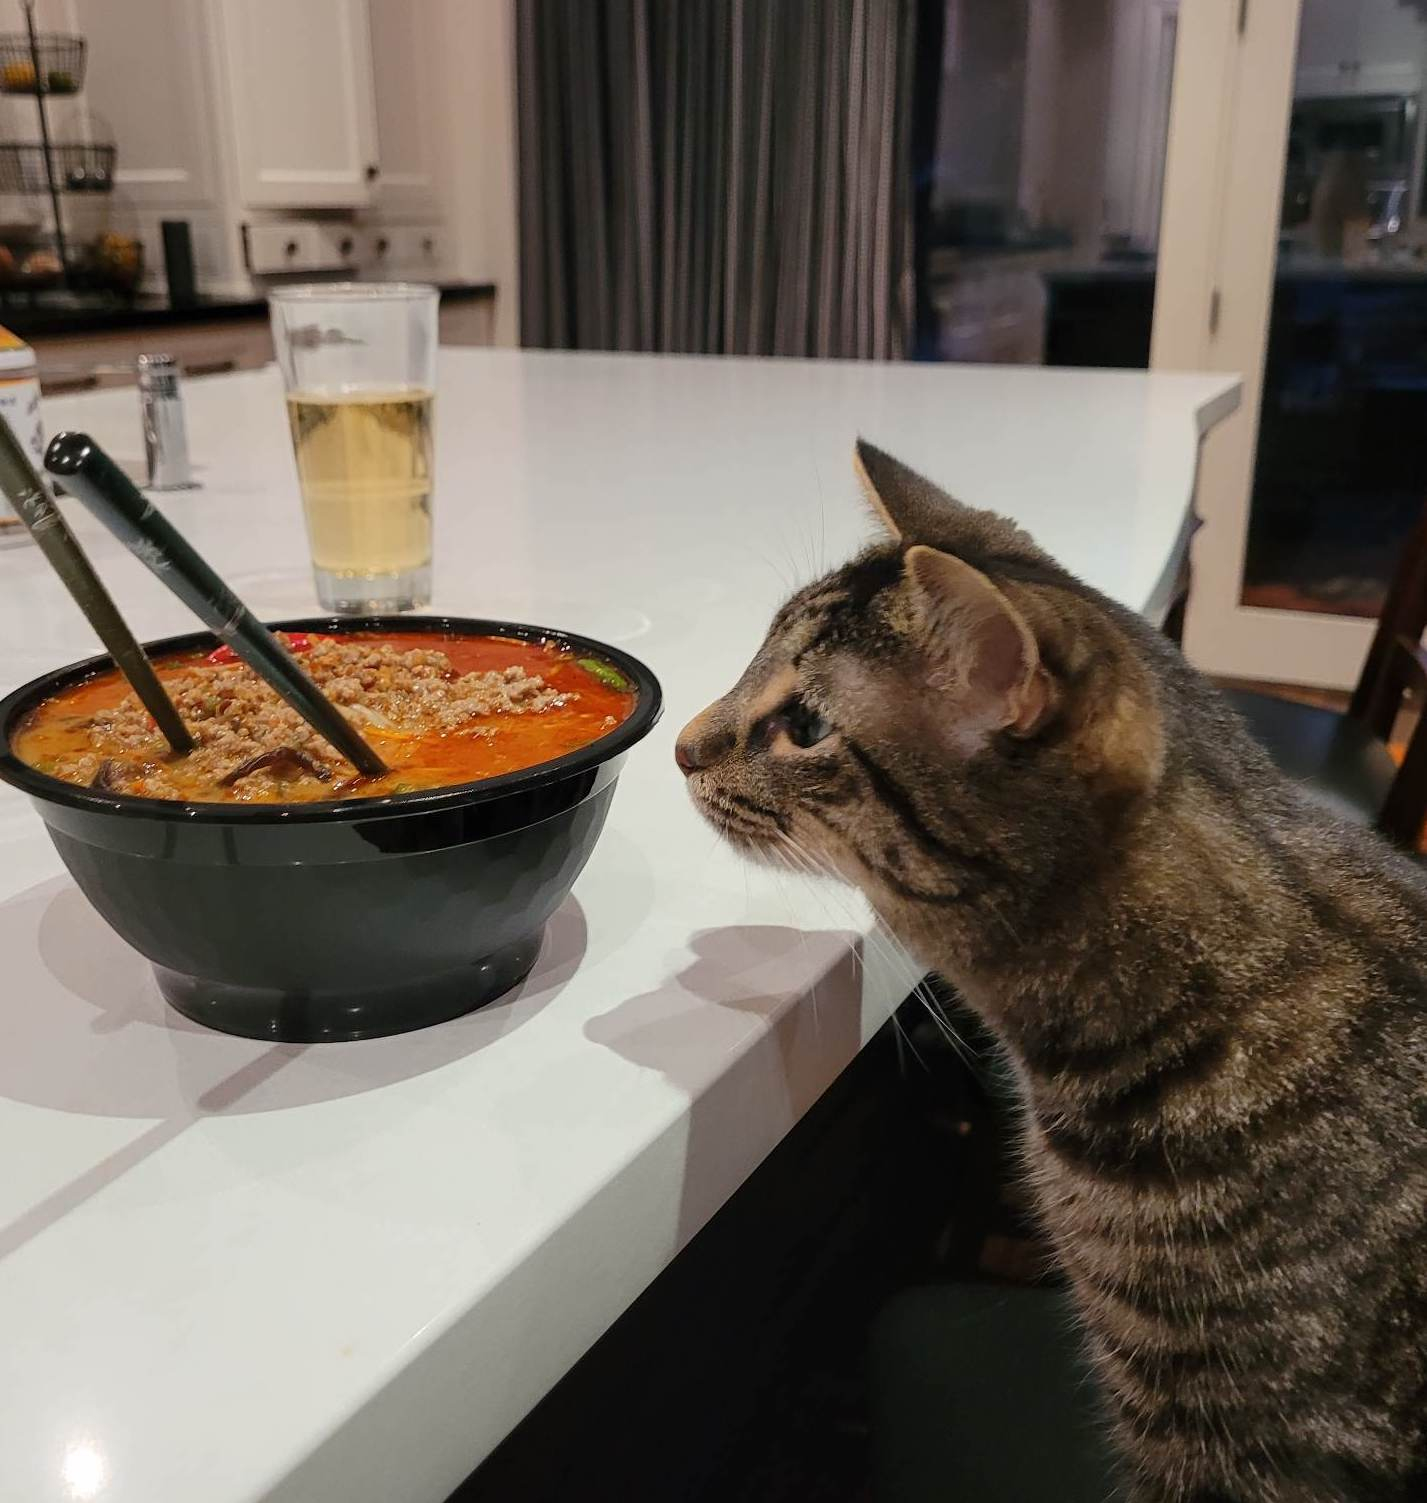
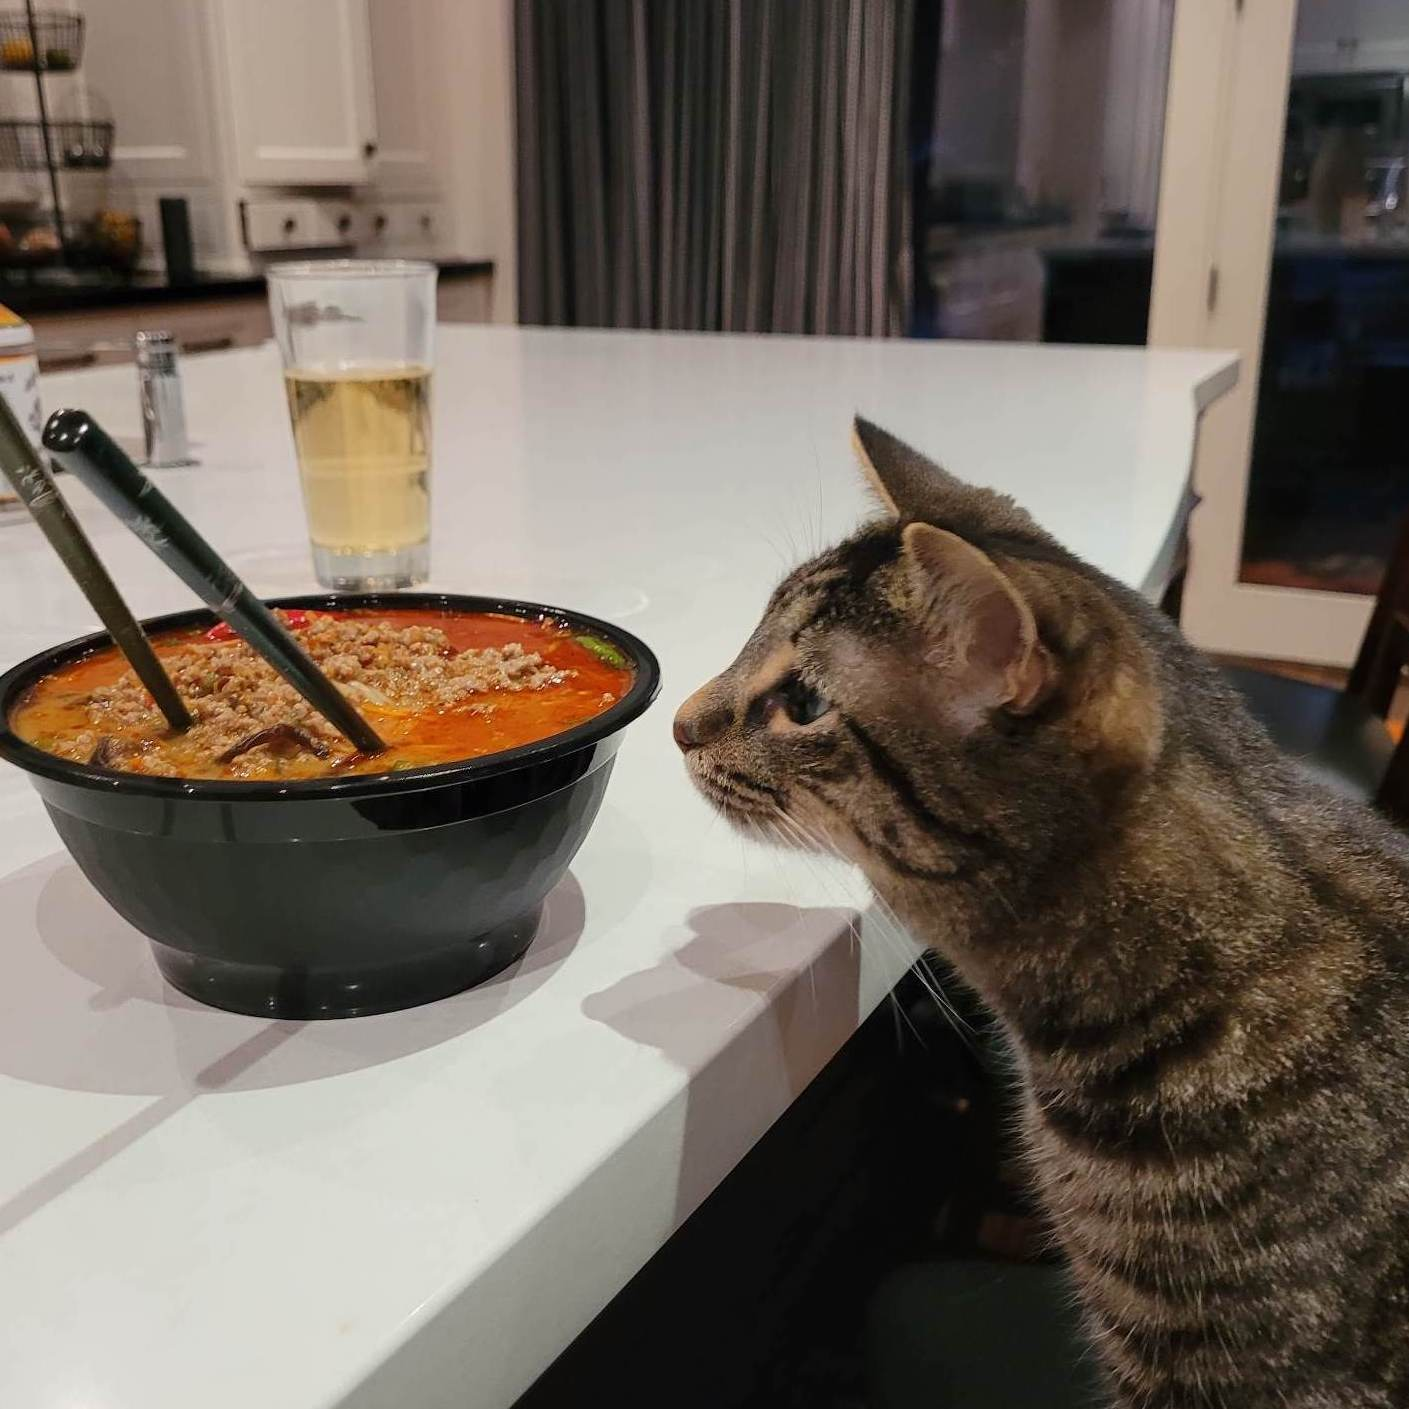
aspect ratio + callie

diff --git a/layouts/_default/animals.html b/layouts/_default/animals.html
@@ -10,18 +10,19 @@
 </header>
 
 <style>
-    img {width: 30vw; border-radius: 5%;}
+    img {width: 30vw; aspect-ratio: 1; border-radius: 5%;}
 </style>
 
 <table>
     <tr>
         <td><img src="/animals/Lola.jpg" title="Lola"/></td>
-        <td><img src="/animals/Sesame.jpg" tile="Sesame"/></td>
+        <td><img src="/animals/Callie.jpg" title="Callie"/></td>
         <td><img src="/animals/Kiki.jpg" title="Kiki"/></td>
     </tr>
     <tr>
         <td><img src="/animals/Kyle.jpg" title="Kyle"/></td>
         <td><img src="/animals/Nova.jpg" title="Nova"/></td>
+        <td><img src="/animals/Sesame.jpg" title="Sesame"/></td>
     </tr>
 </table>
 
